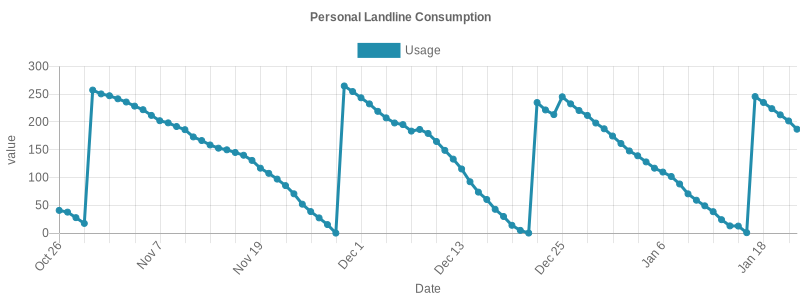
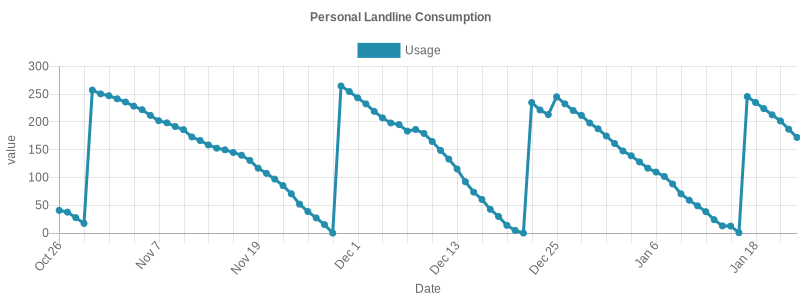
update logs

diff --git a/quota-logs/README.md b/quota-logs/README.md
@@ -87,3 +87,4 @@
 ## Sat Jan 20 2024 00:35:10 GMT+0200|212.83/298
 ## Sun Jan 21 2024 00:34:57 GMT+0200|201.86/298
 ## Mon Jan 22 2024 00:34:44 GMT+0200|186.99/298
+## Tue Jan 23 2024 00:34:40 GMT+0200|172.15/298
